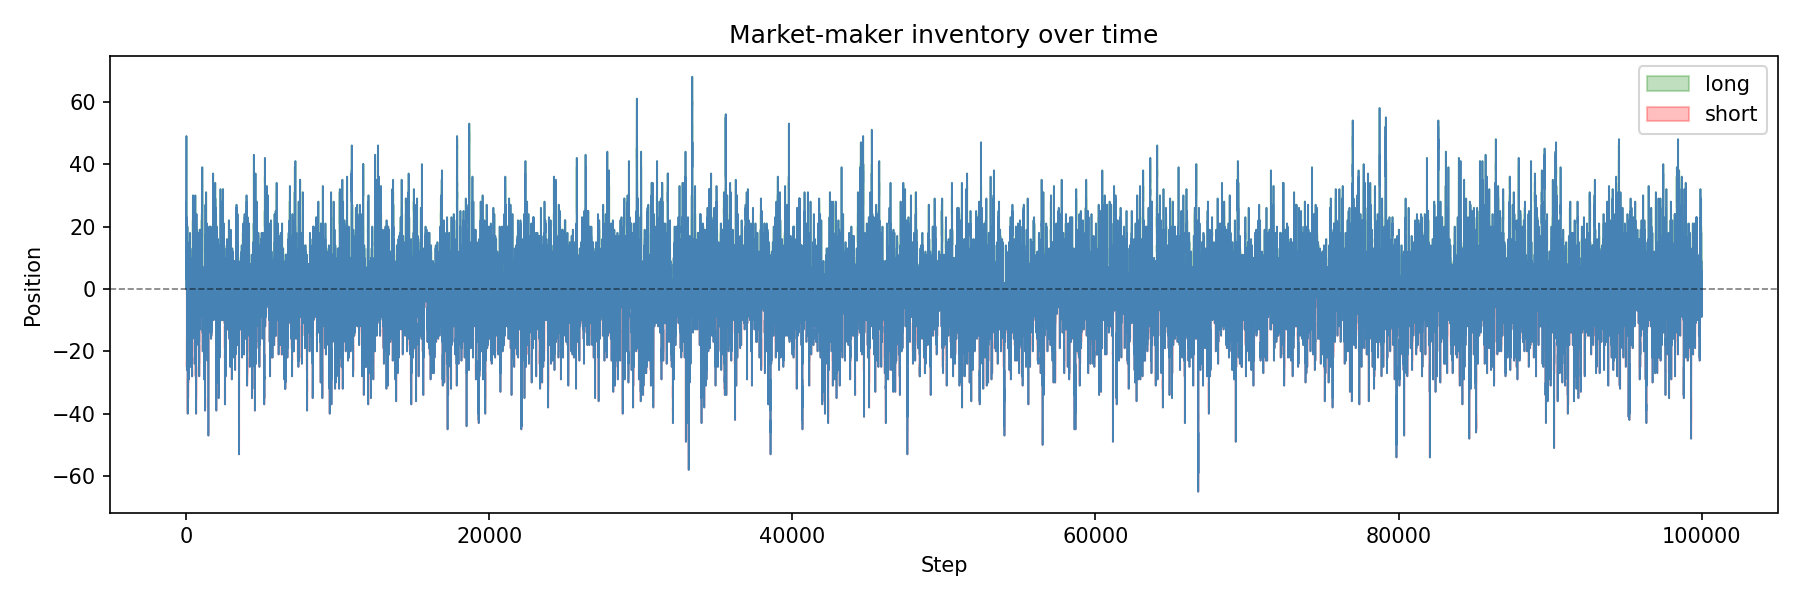
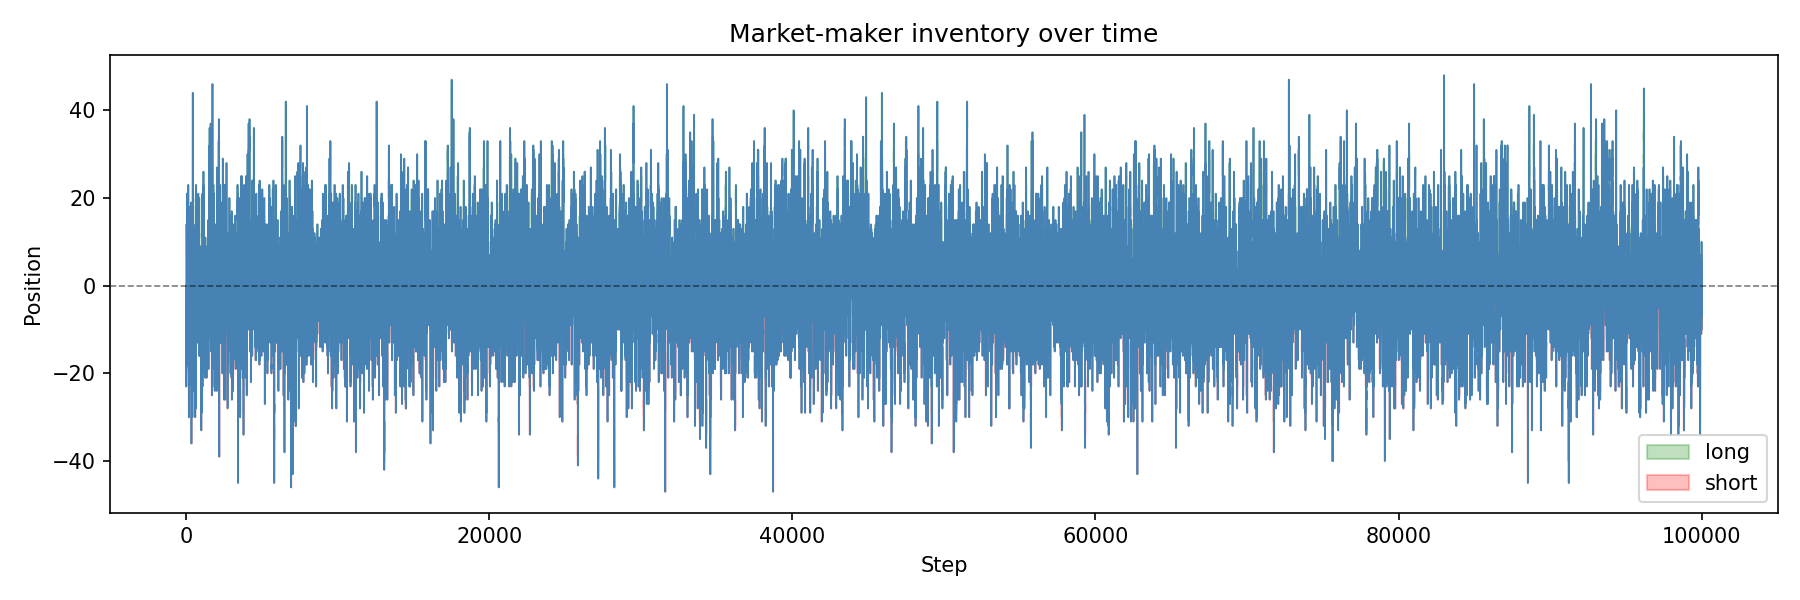
improve typing

diff --git a/main.py b/main.py
@@ -57,26 +57,30 @@ class OrderBook:
         Add an order; match immediately if a trade is possible
         Returns a list of trades that resulted from given order being added
         """
+
+
         trades: list[Trade] = []
         is_market = order.price is None
 
         if order.side == "bid":
             while order.qty > 0 and self.asks:
                 best = self.best_ask()
-                if order.price < best: # current bid price is lower than the lowest ask, meaning we cannot fill
+                assert best is not None
+                if not is_market and order.price is not None and order.price < best:
                     break
-                trades += self._fill(order, self.asks, best) # fill the order
-            if order.qty > 0: # order is filled, but may be remaining quantities left to wait
+                trades += self._fill(order, self.asks, best)
+            if order.qty > 0 and order.price is not None:
                 self.bids[order.price].append(order)
                 self._index[order.order_id] = ("bid", order.price)
 
         elif order.side == "ask":
             while order.qty > 0 and self.bids:
                 best = self.best_bid()
-                if order.price > best: # current ask price is higher than the highest bid, meaning we cannot fill
+                assert best is not None
+                if not is_market and order.price is not None and order.price > best:
                     break
-                trades += self._fill(order, self.bids, best) # fill the order
-            if order.qty > 0:
+                trades += self._fill(order, self.bids, best)
+            if order.qty > 0 and order.price is not None:
                 self.asks[order.price].append(order)
                 self._index[order.order_id] = ("ask", order.price)
 
@@ -143,9 +147,9 @@ class OrderBook:
             print(f"    ${price:>7.2f}  total={total:<4}  {detail}")
 
         spread_str = "no spread"
-        if self.best_bid() and self.best_ask():
-            spread = self.best_ask() - self.best_bid()
-            spread_str = f"spread = ${spread:.2f}"
+        bb, ba = self.best_bid(), self.best_ask()
+        if bb is not None and ba is not None:
+            spread_str = f"spread = ${ba - bb:.2f}"
         print(f"\n  {'─── ' + spread_str + ' ───':^{W - 2}}\n")
 
         print("  BIDS")

diff --git a/simulation.py b/simulation.py
@@ -12,14 +12,14 @@ FAIR_VALUE = 100.0
 TICK = 0.01 # min price increment
 
 # Ornstein-Uhlenbeck fair value parameters
-OU_THETA = 0.005   # mean-reversion speed (per step)
-OU_MU    = 100.0   # long-run mean
-OU_SIGMA = 0.05    # per-step volatility
+OU_THETA = 0.005 # mean-reversion speed (per step)
+OU_MU    = 100.0 # long-run mean
+OU_SIGMA = 0.05 # per-step volatility
 
-MM_HALF_SPREAD = 0.10 # MM quotes mid ± $0.10
+MM_HALF_SPREAD = 0.10 # MM quotes mid +/- $0.10
 MM_QTY = 10
-MM_SKEW_K = 0.01   # price skew per unit of inventory
-MM_QTY_K  = 0.10   # qty adjustment per unit of inventory (fraction of base qty)
+MM_SKEW_K = 0.01 # price skew per unit of inventory
+MM_QTY_K  = 0.10 # qty adjustment per unit of inventory (fraction of base qty)
 LOG_FILE = "trades.log"
 SNAPSHOT_EVERY = 1_000 # tell us progress every N steps
 
